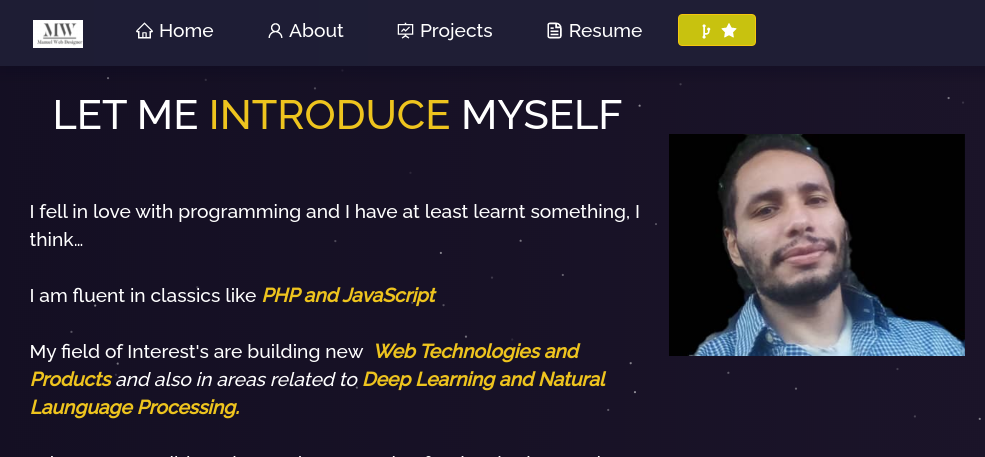
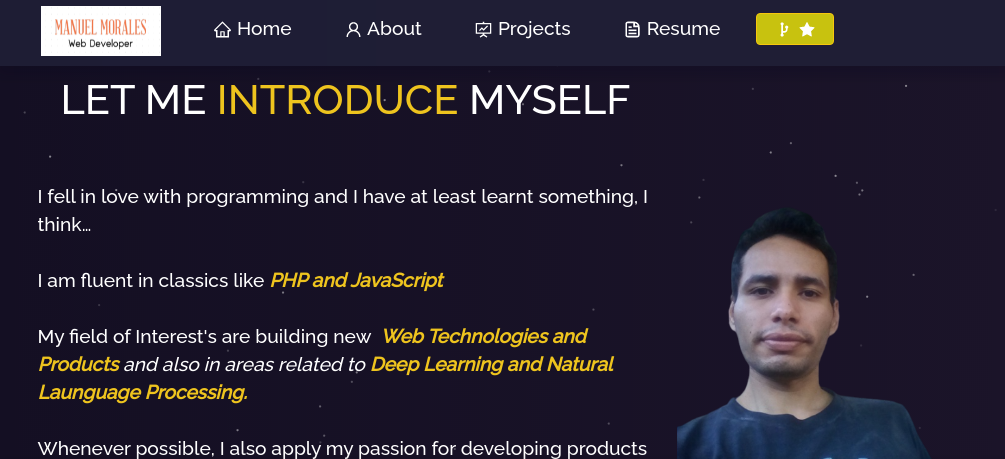
Better Look

diff --git a/index.html b/index.html
@@ -1,1 +1,1 @@
-<!doctype html><html lang="en"><head><meta charset="utf-8"/><link rel="icon" href="/favicon.ico"/><meta name="viewport" content="width=device-width,initial-scale=1"/><meta name="theme-color" content="#000000"/><meta name="description" content="Manuel Morales Web Developer Portfolio"/><meta property="og:title" content="Manuel Morales Portfolio"/><meta property="og:image" content="img/Porfolio-img.png"/><meta property="og:url" content="https://react-manuel-morales-portfolio.netlify.app/"/><meta property="og:description" content="The portfolio from the Web developer Manuel Morales"/><meta property="twitter:card" content="summary_large_image"/><meta property="twitter:image" content="img/Porfolio-img.png"/><link rel="apple-touch-icon" href="/logo192.png"/><link rel="manifest" href="/manifest.json"/><title>Manuel Mrales Web Developer Portfoliol</title><link href="/static/css/2.f2512455.chunk.css" rel="stylesheet"><link href="/static/css/main.89099681.chunk.css" rel="stylesheet"></head><body><noscript>You need to enable JavaScript to run this app.</noscript><div id="root"></div><script>!function(e){function t(t){for(var n,a,i=t[0],c=t[1],l=t[2],s=0,p=[];s<i.length;s++)a=i[s],Object.prototype.hasOwnProperty.call(o,a)&&o[a]&&p.push(o[a][0]),o[a]=0;for(n in c)Object.prototype.hasOwnProperty.call(c,n)&&(e[n]=c[n]);for(f&&f(t);p.length;)p.shift()();return u.push.apply(u,l||[]),r()}function r(){for(var e,t=0;t<u.length;t++){for(var r=u[t],n=!0,i=1;i<r.length;i++){var c=r[i];0!==o[c]&&(n=!1)}n&&(u.splice(t--,1),e=a(a.s=r[0]))}return e}var n={},o={1:0},u=[];function a(t){if(n[t])return n[t].exports;var r=n[t]={i:t,l:!1,exports:{}};return e[t].call(r.exports,r,r.exports,a),r.l=!0,r.exports}a.e=function(e){var t=[],r=o[e];if(0!==r)if(r)t.push(r[2]);else{var n=new Promise((function(t,n){r=o[e]=[t,n]}));t.push(r[2]=n);var u,i=document.createElement("script");i.charset="utf-8",i.timeout=120,a.nc&&i.setAttribute("nonce",a.nc),i.src=function(e){return a.p+"static/js/"+({}[e]||e)+"."+{3:"ae6e0b8a"}[e]+".chunk.js"}(e);var c=new Error;u=function(t){i.onerror=i.onload=null,clearTimeout(l);var r=o[e];if(0!==r){if(r){var n=t&&("load"===t.type?"missing":t.type),u=t&&t.target&&t.target.src;c.message="Loading chunk "+e+" failed.\n("+n+": "+u+")",c.name="ChunkLoadError",c.type=n,c.request=u,r[1](c)}o[e]=void 0}};var l=setTimeout((function(){u({type:"timeout",target:i})}),12e4);i.onerror=i.onload=u,document.head.appendChild(i)}return Promise.all(t)},a.m=e,a.c=n,a.d=function(e,t,r){a.o(e,t)||Object.defineProperty(e,t,{enumerable:!0,get:r})},a.r=function(e){"undefined"!=typeof Symbol&&Symbol.toStringTag&&Object.defineProperty(e,Symbol.toStringTag,{value:"Module"}),Object.defineProperty(e,"__esModule",{value:!0})},a.t=function(e,t){if(1&t&&(e=a(e)),8&t)return e;if(4&t&&"object"==typeof e&&e&&e.__esModule)return e;var r=Object.create(null);if(a.r(r),Object.defineProperty(r,"default",{enumerable:!0,value:e}),2&t&&"string"!=typeof e)for(var n in e)a.d(r,n,function(t){return e[t]}.bind(null,n));return r},a.n=function(e){var t=e&&e.__esModule?function(){return e.default}:function(){return e};return a.d(t,"a",t),t},a.o=function(e,t){return Object.prototype.hasOwnProperty.call(e,t)},a.p="/",a.oe=function(e){throw console.error(e),e};var i=this.webpackJsonptest=this.webpackJsonptest||[],c=i.push.bind(i);i.push=t,i=i.slice();for(var l=0;l<i.length;l++)t(i[l]);var f=c;r()}([])</script><script src="/static/js/2.dae54300.chunk.js"></script><script src="/static/js/main.f9690e2f.chunk.js"></script></body></html>
+<!doctype html><html lang="en"><head><meta charset="utf-8"/><link rel="icon" href="/favicon.ico"/><meta name="viewport" content="width=device-width,initial-scale=1"/><meta name="theme-color" content="#000000"/><meta name="description" content="Manuel Morales Web Developer Portfolio"/><meta property="og:title" content="Manuel Morales Portfolio"/><meta property="og:image" content="img/Porfolio-img.png"/><meta property="og:url" content="https://react-manuel-morales-portfolio.netlify.app/"/><meta property="og:description" content="The portfolio from the Web developer Manuel Morales"/><meta property="twitter:card" content="summary_large_image"/><meta property="twitter:image" content="Porfolio-img.png"/><link rel="apple-touch-icon" href="/logo192.png"/><link rel="manifest" href="/manifest.json"/><title>Manuel Mrales Web Developer Portfoliol</title><link href="/static/css/2.f2512455.chunk.css" rel="stylesheet"><link href="/static/css/main.a927fb58.chunk.css" rel="stylesheet"></head><body><noscript>You need to enable JavaScript to run this app.</noscript><div id="root"></div><script>!function(e){function t(t){for(var n,a,i=t[0],c=t[1],l=t[2],s=0,p=[];s<i.length;s++)a=i[s],Object.prototype.hasOwnProperty.call(o,a)&&o[a]&&p.push(o[a][0]),o[a]=0;for(n in c)Object.prototype.hasOwnProperty.call(c,n)&&(e[n]=c[n]);for(f&&f(t);p.length;)p.shift()();return u.push.apply(u,l||[]),r()}function r(){for(var e,t=0;t<u.length;t++){for(var r=u[t],n=!0,i=1;i<r.length;i++){var c=r[i];0!==o[c]&&(n=!1)}n&&(u.splice(t--,1),e=a(a.s=r[0]))}return e}var n={},o={1:0},u=[];function a(t){if(n[t])return n[t].exports;var r=n[t]={i:t,l:!1,exports:{}};return e[t].call(r.exports,r,r.exports,a),r.l=!0,r.exports}a.e=function(e){var t=[],r=o[e];if(0!==r)if(r)t.push(r[2]);else{var n=new Promise((function(t,n){r=o[e]=[t,n]}));t.push(r[2]=n);var u,i=document.createElement("script");i.charset="utf-8",i.timeout=120,a.nc&&i.setAttribute("nonce",a.nc),i.src=function(e){return a.p+"static/js/"+({}[e]||e)+"."+{3:"ae6e0b8a"}[e]+".chunk.js"}(e);var c=new Error;u=function(t){i.onerror=i.onload=null,clearTimeout(l);var r=o[e];if(0!==r){if(r){var n=t&&("load"===t.type?"missing":t.type),u=t&&t.target&&t.target.src;c.message="Loading chunk "+e+" failed.\n("+n+": "+u+")",c.name="ChunkLoadError",c.type=n,c.request=u,r[1](c)}o[e]=void 0}};var l=setTimeout((function(){u({type:"timeout",target:i})}),12e4);i.onerror=i.onload=u,document.head.appendChild(i)}return Promise.all(t)},a.m=e,a.c=n,a.d=function(e,t,r){a.o(e,t)||Object.defineProperty(e,t,{enumerable:!0,get:r})},a.r=function(e){"undefined"!=typeof Symbol&&Symbol.toStringTag&&Object.defineProperty(e,Symbol.toStringTag,{value:"Module"}),Object.defineProperty(e,"__esModule",{value:!0})},a.t=function(e,t){if(1&t&&(e=a(e)),8&t)return e;if(4&t&&"object"==typeof e&&e&&e.__esModule)return e;var r=Object.create(null);if(a.r(r),Object.defineProperty(r,"default",{enumerable:!0,value:e}),2&t&&"string"!=typeof e)for(var n in e)a.d(r,n,function(t){return e[t]}.bind(null,n));return r},a.n=function(e){var t=e&&e.__esModule?function(){return e.default}:function(){return e};return a.d(t,"a",t),t},a.o=function(e,t){return Object.prototype.hasOwnProperty.call(e,t)},a.p="/",a.oe=function(e){throw console.error(e),e};var i=this.webpackJsonptest=this.webpackJsonptest||[],c=i.push.bind(i);i.push=t,i=i.slice();for(var l=0;l<i.length;l++)t(i[l]);var f=c;r()}([])</script><script src="/static/js/2.dae54300.chunk.js"></script><script src="/static/js/main.6567d818.chunk.js"></script></body></html>
